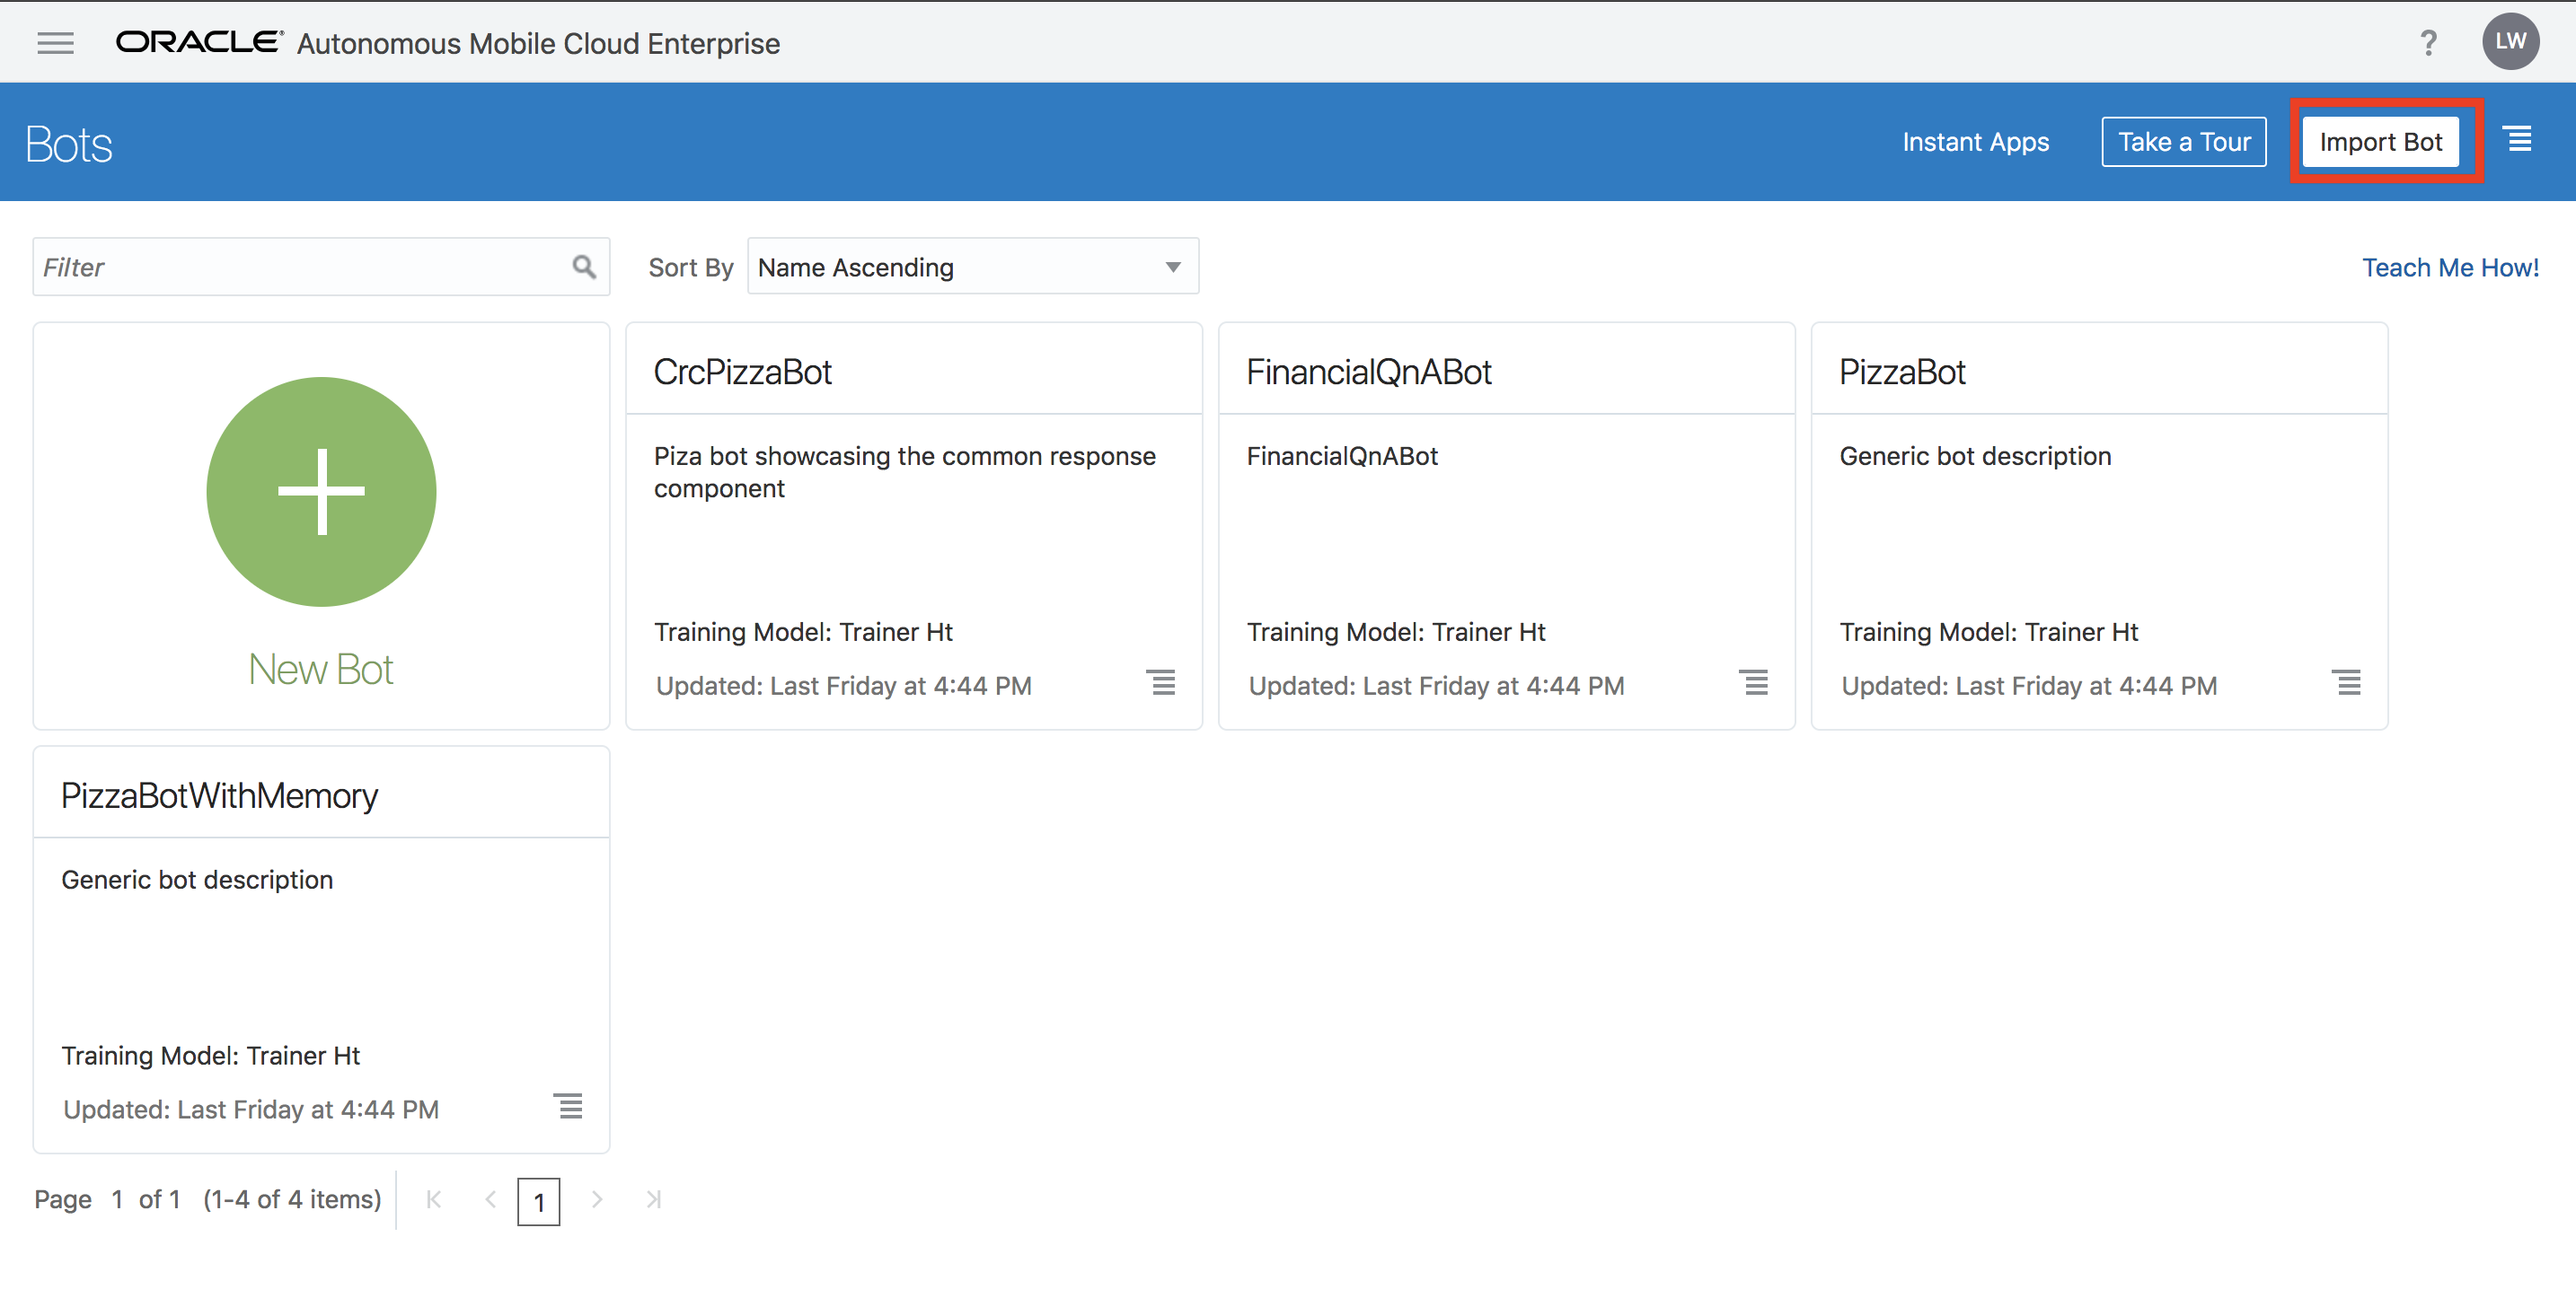
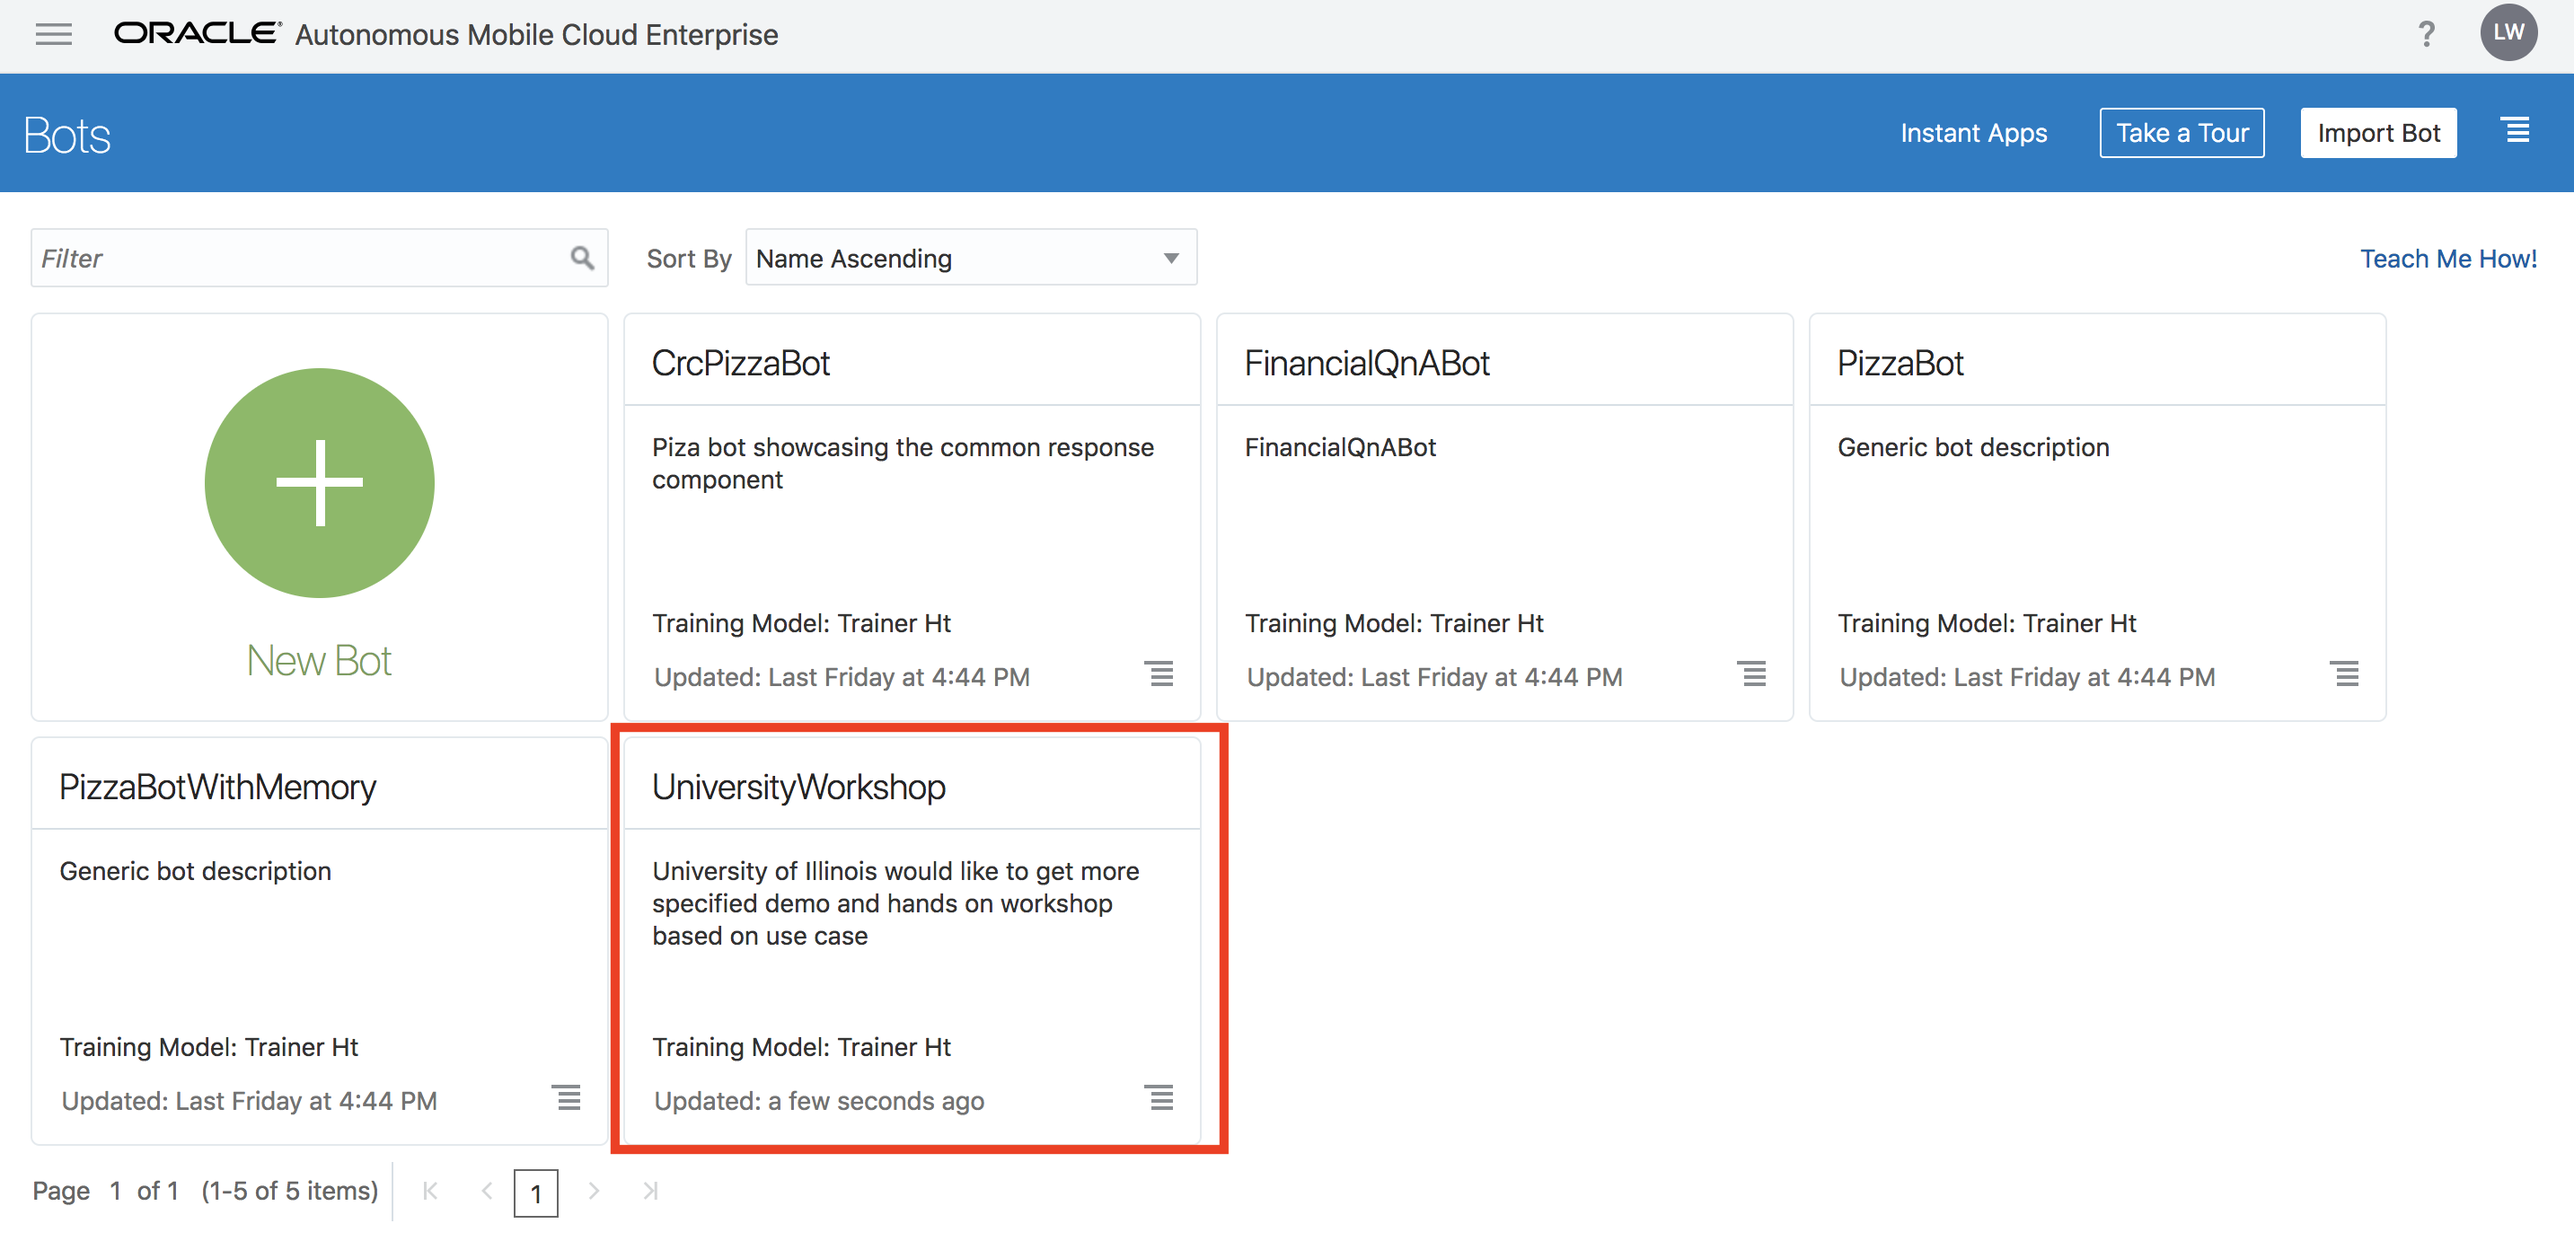
[Lab 100] finished lab 100.

diff --git a/Lab100.md b/Lab100.md
@@ -70,19 +70,26 @@ This lab walks you through the steps to explore AMCe Intelligent Bot UI, import 
 
 ![](./images/100/10.png)
 
-- This will import a bot called "Nom_Nom_Pizza_Bot". Go ahead and click on it to see the details.
+- This will import a bot called "UniversityWorkshop". Go ahead and click on it to see the details.
 
 ![](./images/100/11.png)
 
-- On this page is where you will develop the content, interaction, and channels for the bot. We will dive into each section on the next lab. To test the functionality and the flow of the current bot, click on the Play button on the top right of the screen. This will open up a testing place to test the functionality of your chatbot before you fully commit to it.
+- On this page is where you will develop the rest workflow with the integration of backend & API services (e.g. HCM backend service), configuration of Q&A, and channels for the bot. We will dive into each section on the next lab. 
+
+![](./images/100/11.png)
+
+- In order to test the functionality and the flow of the current bot: 
+   a. you should train the bot firstly. 
+   b. clicking on the Play button on the top right of the screen which will open up a testing place to test the functionality of your chatbot before you fully commit to it. 
+   c. Go ahead and chat with the bot. You can say "hello". 
+
+![](./images/100/12_1_before.png)
+
+![](./images/100/12_1_after.png)
 
 ![](./images/100/12.png)
 
-- Go ahead and chat with the bot. You can say "order pizza". 
-
-![](./images/100/13.png)
-
-- As you can see, it will reply with pizzas you might like. Select one you would like to order, select a size, and then send your location so the restaurant knows where to deliver to. Now, Nom Nom Pizza has your order and will be delivered in 120 seconds!
+- As you can see, it will reply with welcome message and service you might like to chose. Select one service you would like to use. Student service will allow you to get or update students basic information (such as: phone, email, address etc.); Visitor service will provide you FAQ answers on the basic of your asked questions.
 
 - Now, you have familiarized with the dashboard, imported a chatbot, and interacted with a chatbot. The bot is interactive but we would like to add more functionalities to it. Let's do that in the next lab!
 
